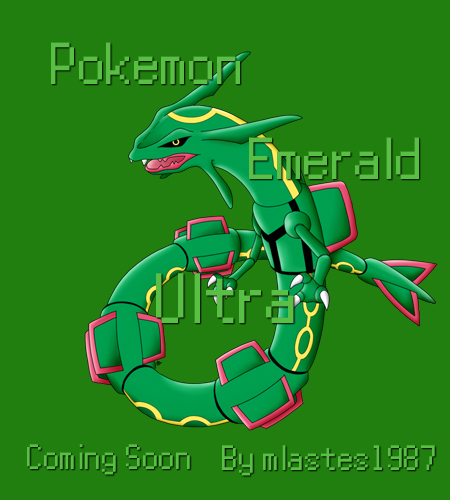
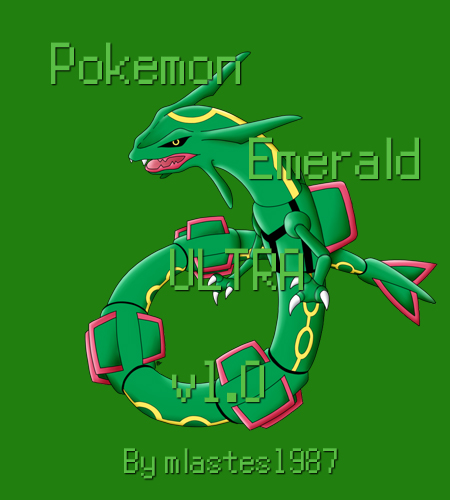
Update README.md and box art for 1.0 release.

Changed region(s): [[0.0622, 0.87, 0.9644, 0.96], [0.3422, 0.48, 0.6844, 0.66], [0.3733, 0.72, 0.5911, 0.81]]

diff --git a/README.md b/README.md
@@ -4,4 +4,34 @@
 
 Based on the pokeemerald-expansion from [**rh-hideout**](https://github.com/rh-hideout/pokeemerald-expansion)
 
-Coming soon...
+# Features
+
+- **Reusable TMs**
+
+- **Forgettable HMs** Without a Move Tutor.
+
+- **Startup Money** Startup money has been changed from 3,000 to 35,000 Pokedollars.
+
+- **HGSS Pokedex Plus** Backported from HeartGold SoulSilver, you get to enjoy the features of Pokedex Plus.
+
+- **Follower Pokemon** Any Pokemon in the first party slot will follow you through the overworld.
+
+- **Trade Evolutions** All Trade Evolutions can evolve by using either a Linking Cable or their specific evolution items like Metal Coat or King's Rock, but can also evolve by trading between FR and LG out of the box.
+
+- **Debug Menu** By pressing R+Start you can open a special debug menu made by a few people. [**See here**](/include/config/debug.h) and it includes features like giving you items, pokemon, and other changes to the game.
+
+- **Double Battles** All double battles no longer require you to have two pokemon in your party and 25% of the time wild battles will be double.  This also means that you can battle two trainers at once.
+
+- **Gen 5 Map Area Popups** All Map Area Popups are switched to Gen 5 and include a 12hr clock displayed at the bottom.
+
+- **Gen 6 Exp. Share** From the beginning, you can add the Exp. Share from the Debug menu to share Experience points with your party.
+
+- **Running Indoors** This makes traversing all of Kanto much easier and faster, great for speed runs.
+
+- **Fast-Run** During wild battles you can hold B to run.
+
+- **Known Issues** Any known or reported issues will be put here.
+
+# Thanks/Credits
+
+Thanks to the [**RH-Hideout**] community, whose help and Emerald Expansion code base made this project possible.
